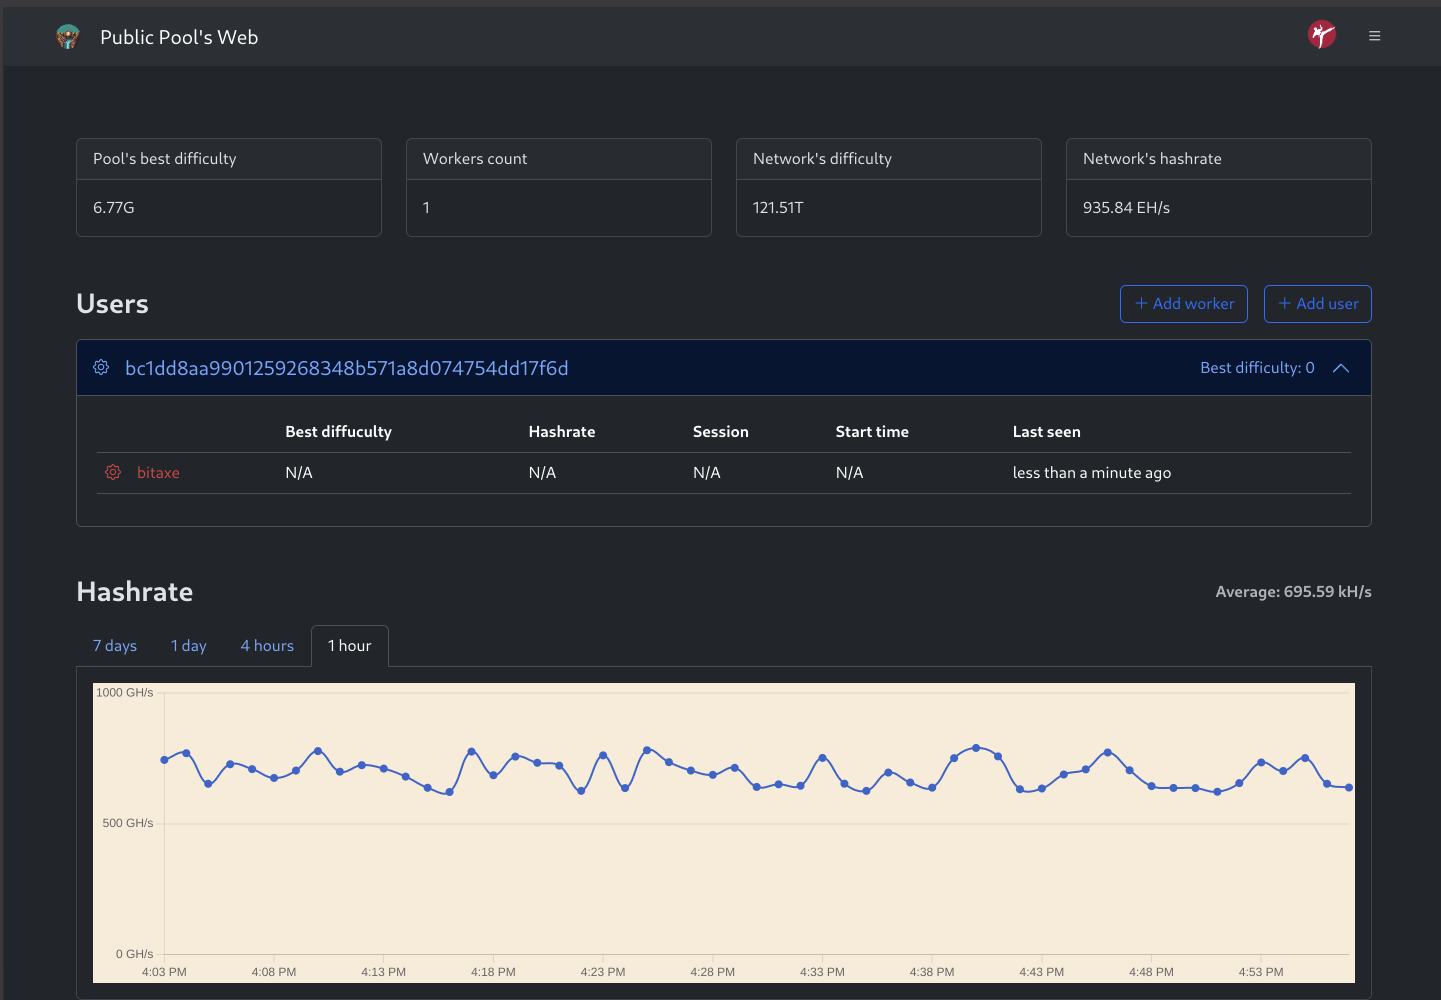
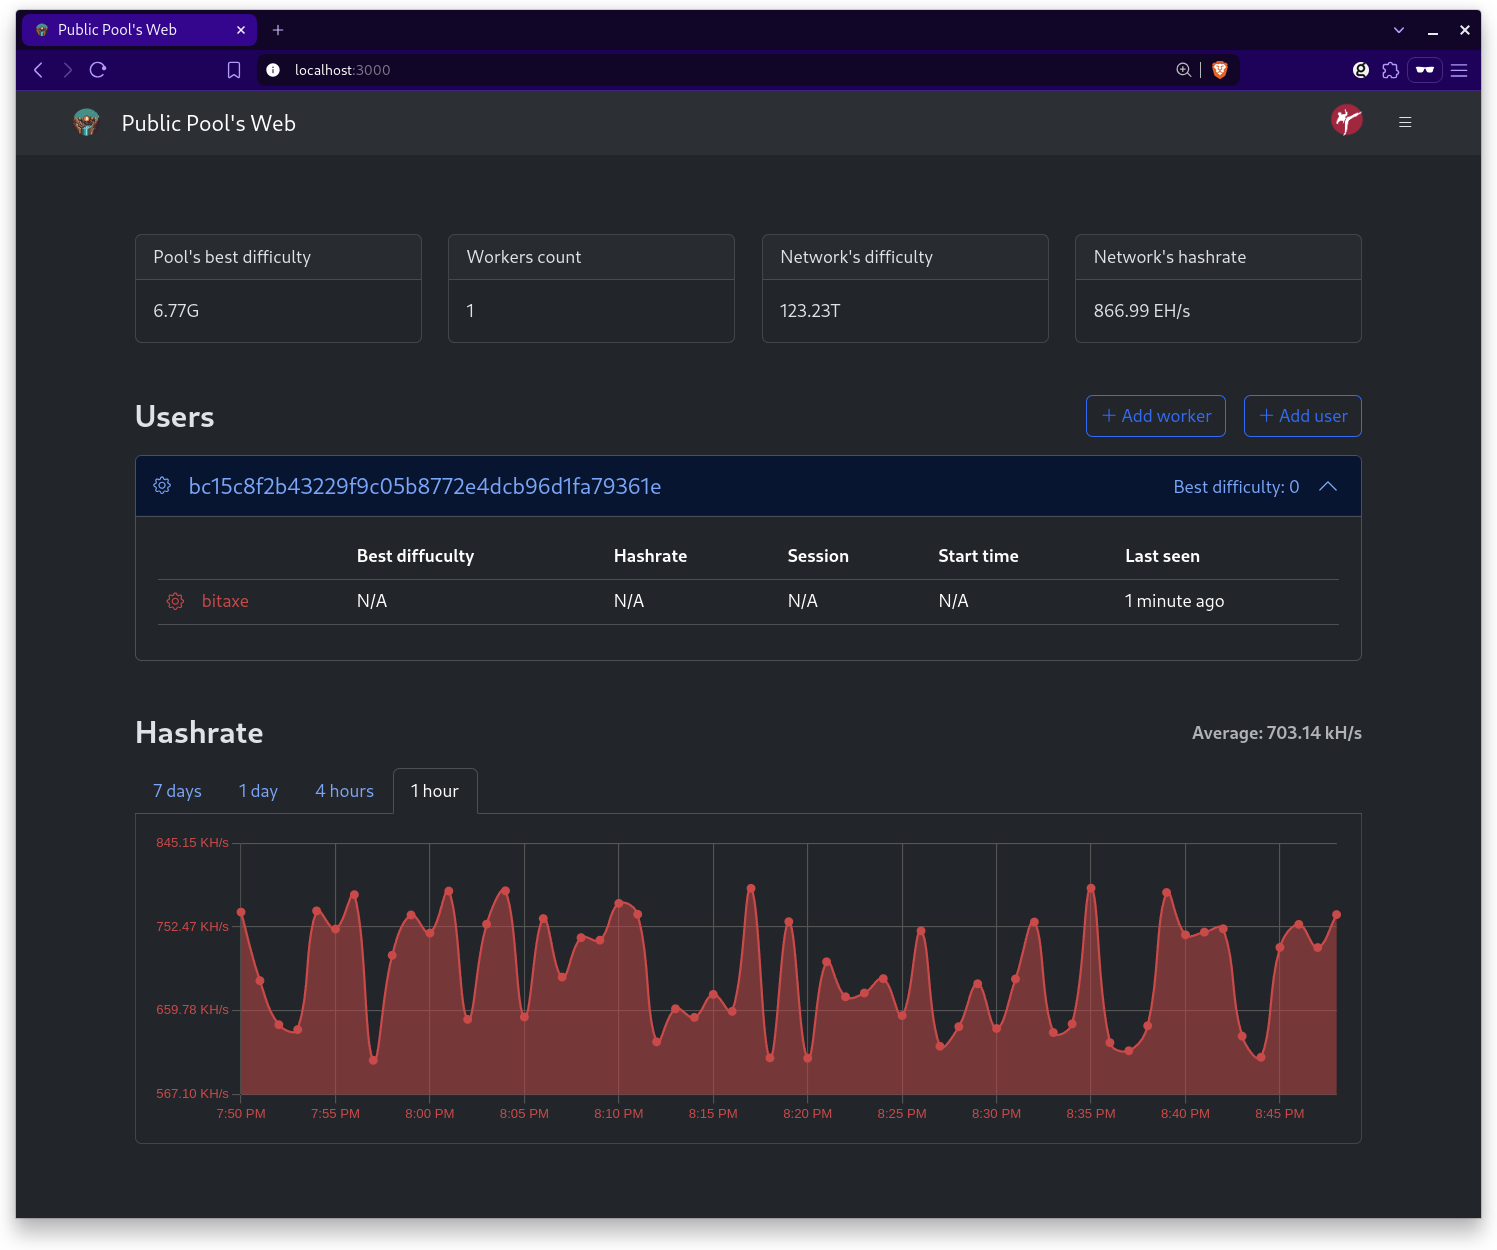
feat: new chart styles

diff --git a/app/javascript/controllers/chart_controller.js b/app/javascript/controllers/chart_controller.js
@@ -2,8 +2,19 @@ import { Controller } from "@hotwired/stimulus";
 
 // Connects to data-controller="chart"
 export default class extends Controller {
-  static targets = ["period"];
-  static values = { url: String };
+  static targets = ["period", "chart"];
+
+  static values = {
+    data: String,
+    url: String,
+    color: String,
+    gridColor: String,
+    fontColor: String,
+    fontSize: Number,
+    offset: Number,
+    min: Number,
+    max: Number,
+  };
 
   connect() {
     const activePeriod = this.periodTargets.find((target) =>
@@ -23,5 +34,90 @@ export default class extends Controller {
     });
 
     e.target.classList.add("active");
+  }
+
+  chartTargetConnected(element) {
+    if (!this.dataValue) return;
+
+    new Chartkick.AreaChart(
+      element,
+      JSON.parse(this.dataValue),
+      this.defaultOptions(this.minValue, this.maxValue)
+    );
+  }
+
+  defaultOptions(min, max) {
+    const _this = this;
+
+    return {
+      colors: [this.colorValue],
+      library: {
+        scales: {
+          x: {
+            grid: {
+              display: true,
+              drawOnChartArea: true,
+              drawTicks: true,
+              color: this.gridColorValue,
+            },
+            ticks: {
+              color: this.colorValue,
+              font: { size: this.fontSizeValue },
+              count: 4, // This will attempt to show ~10 ticks on X axis
+            },
+          },
+          y: {
+            grid: {
+              display: true,
+              drawOnChartArea: true,
+              drawTicks: true,
+              color: this.gridColorValue,
+            },
+            ticks: {
+              color: this.colorValue,
+              font: { size: this.fontSizeValue },
+              count: 4, // This will attempt to show ~15 ticks on Y axis
+              callback: function (value) {
+                return _this.humanizeHashRate(value);
+              },
+            },
+            min: min - this.calculateOffset(min),
+            max: max + this.calculateOffset(max),
+          },
+        },
+        plugins: {
+          tooltip: {
+            callbacks: {
+              label: function (context) {
+                const value = context.parsed.y;
+                return `Hashrate: ${_this.humanizeHashRate(value)}`;
+              },
+              title: function (context) {
+                return `Date: ${new Date(
+                  context[0].parsed.x
+                ).toLocaleString()}`;
+              },
+            },
+          },
+        },
+      },
+    };
+  }
+
+  humanizeHashRate(hashRate) {
+    const units = ["H/s", "KH/s", "MH/s", "GH/s", "TH/s", "PH/s", "EH/s"];
+    let index = 0;
+    let value = hashRate;
+
+    while (value > 1000 && index < units.length - 1) {
+      value /= 1000;
+      index++;
+    }
+
+    return `${value.toFixed(2)} ${units[index]}`;
+  }
+
+  calculateOffset(value) {
+    return (value / 100) * this.offsetValue;
   }
 }

diff --git a/app/assets/stylesheets/application.bootstrap.scss b/app/assets/stylesheets/application.bootstrap.scss
@@ -13,6 +13,6 @@
     }
 }
 
-canvas { 
-    background-color: antiquewhite;
+#chart {
+    height: 300px;
 }

diff --git a/app/controllers/chart_datas_controller.rb b/app/controllers/chart_datas_controller.rb
@@ -1,11 +1,22 @@
 # frozen_string_literal: true
 
 class ChartDatasController < ApplicationController
-	before_action :set_pool
+	before_action :set_pool, only: :index
+	before_action :update_pool_period, only: :index
 
 	def index
-		update_pool_period if period_param.present?
 		@data = fetch_chart_data
+		@average = @data&.size&.positive? ? (@data.sum(&:last) / @data.size) : 0
+		@min_max =
+			if @data&.size&.positive?
+				{
+					max: @data.max_by(&:last).last,
+					min: @data.min_by(&:last).last
+				}
+			else
+				{ max: 1000, min: 0 }
+			end
+
 		render_chart_stream
 	end
 
@@ -16,6 +27,8 @@ class ChartDatasController < ApplicationController
 	end
 
 	def update_pool_period
+		return if period_param.blank?
+
 		@pool.update!(period: sanitize_period(period_param))
 	end
 

diff --git a/app/models/chart_data.rb b/app/models/chart_data.rb
@@ -12,6 +12,10 @@ class ChartData < ApplicationRecord
 	TOLERANCE = 1.second
 	SUPPORTED_INTERVALS = %w[PT1H PT4H PT24H P7D].freeze
 	DEFAULT_TIMEFRAME = 1.hour
+	COLOR = '#dc3545'
+	GRID_COLOR = '#555'
+	FONT_SIZE = 12
+	OFFSET = 6.25
 
 	# Scopes
 	scope :ungrouped_data, lambda { |since, worker_id|
@@ -83,7 +87,7 @@ class ChartData < ApplicationRecord
 		end
 
 		def average_by_worker_id(data)
-			data.group_by { _1[1] }.transform_values do |values|
+			data.group_by { it[1] }.transform_values do |values|
 				numeric_values = values.map { |x| x.last.to_f }
 				numeric_values.sum / values.size
 			end.to_a

diff --git a/config/routes.rb b/config/routes.rb
@@ -6,7 +6,7 @@ require 'sidekiq-scheduler/web'
 Rails.application.routes.draw do
 	resources :users
 	resources :workers, except: [:index]
-	resources :chart_datas, only: [:index]
+	resources :chart_datas, only: %i[index]
 	resources :pools, only: [:update]
 
 	mount Sidekiq::Web => '/sidekiq'

diff --git a/README.md b/README.md
@@ -1,9 +1,13 @@
-# Public Pool Web Application
+# Public Pool's Web
 
 A modern web application built with Ruby on Rails 8.0 and Bootstrap 5, featuring real-time updates with Hotwire and a responsive design.
 
 ![screenshot of the application](/umbrel-os/images/1.png)
 
+## TODO
+
+* <input type="checkbox"> Upgrade Rails to 8.0.2
+* <input type="checkbox"> Upgrade Ruby to 3.4.2
 
 ## Requirements
 
@@ -62,16 +66,27 @@ Run the test suite with:
 
 ## Deployment
 
-This application is configured for deployment using Kamal and Docker:
+This application is set to be deployed manually on Umbrel OS (see `umbrel-os` directory). To deploy:
 
-1. Build the Docker image:
+1. Clone the repository
    ```bash
-   docker build -t public-pool-web .
+   git clone https://github.com/martinbarilik/public-pool-web
+   cd public-pool-web
    ```
 
-2. Deploy using Kamal:
+2. rsync the application to the Umbrel OS server:
    ```bash
-   kamal deploy
+   rsync -av --exclude=".gitkeep" <path-to-your-cloned-repo-on-local-machine>/public-pool-web/umbrel-os umbrel@umbrel.local:/home/umbrel/umbrel/app-stores/getumbrel-umbrel-apps-github-53f74447/
+   ```
+
+3. Install the app on your umbrelOS device via terminal or app store
+   ```bash
+   umbreld client apps.install.mutate --appId public-pool-web
+   ```   
+
+4. Uninstall the app
+   ```bash
+   umbreld client apps.uninstall.mutate --appId public-pool-web
    ```
 
 ## Contributing
